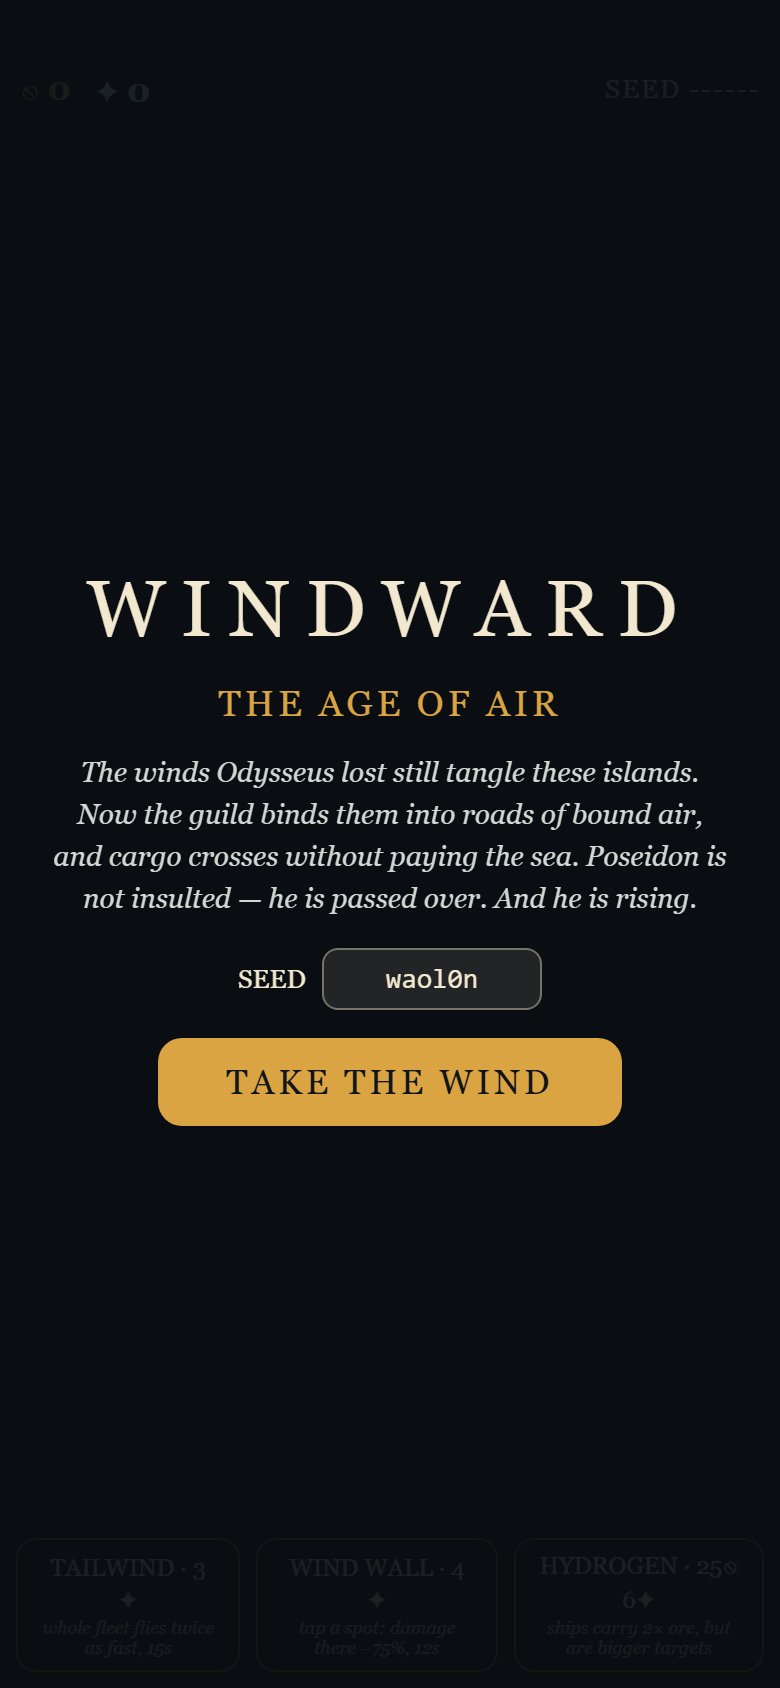
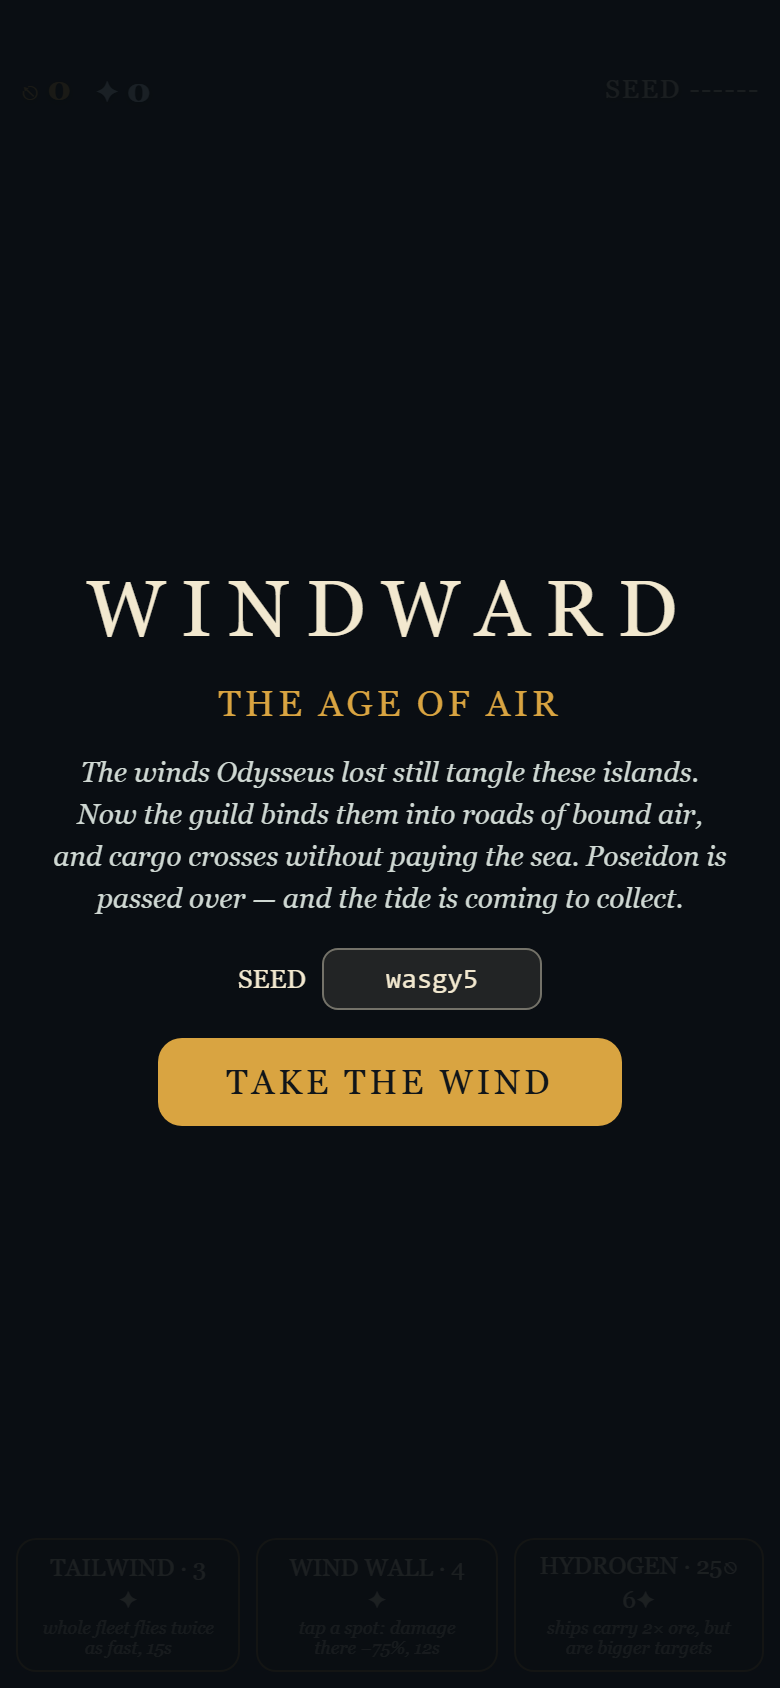
tune: lore line - Poseidon is passed over, the tide comes to collect
Player-directed tightening: "not insulted" cut; the revenge lands as
"Poseidon is passed over - and the tide is coming to collect", tying
his grievance to the unpaid crossing toll.

Claude-Session: https://claude.ai/code/session_01NjEpo5MjLFBKVLFNZET6tb

Changed region(s): [[0.3385, 0.5237, 0.8923, 0.5853], [0.1231, 0.5237, 0.3077, 0.5545]]

diff --git a/index.html b/index.html
@@ -225,8 +225,8 @@
     <h2>THE AGE OF AIR</h2>
     <p id="lorepara" style="max-width:340px; font-style: italic; line-height:1.5;">The winds
       Odysseus lost still tangle these islands. Now the guild binds them into roads of
-      bound air, and cargo crosses without paying the sea. Poseidon is not insulted —
-      he is passed over. And he is rising.</p>
+      bound air, and cargo crosses without paying the sea. Poseidon is passed over —
+      and the tide is coming to collect.</p>
     <div class="seedrow">SEED <input id="seedinput" maxlength="8" autocomplete="off"></div>
     <button id="startbtn">TAKE THE WIND</button>
   </div>

diff --git a/shell.html b/shell.html
@@ -225,8 +225,8 @@
     <h2>THE AGE OF AIR</h2>
     <p id="lorepara" style="max-width:340px; font-style: italic; line-height:1.5;">The winds
       Odysseus lost still tangle these islands. Now the guild binds them into roads of
-      bound air, and cargo crosses without paying the sea. Poseidon is not insulted —
-      he is passed over. And he is rising.</p>
+      bound air, and cargo crosses without paying the sea. Poseidon is passed over —
+      and the tide is coming to collect.</p>
     <div class="seedrow">SEED <input id="seedinput" maxlength="8" autocomplete="off"></div>
     <button id="startbtn">TAKE THE WIND</button>
   </div>

diff --git a/buildlog/BUILDLOG.md b/buildlog/BUILDLOG.md
@@ -133,6 +133,7 @@ ENTRY TEMPLATE — copy for each session.
 | 43 | **Waves are EVENTS + cloudy fog + flow math + fog leaks (five reports):** wave launch now lands with a war-horn crash, an eruption at the origin, a pulsing teal storm vignette (telegraph→assault) and an edge chevron pointing at his fleet when off-screen — drama without a single word. Ocean lurch on pan root-caused: scroll was flowDir×absolute-time, so wind changes were amplified by all accumulated seconds; now a CPU-integrated offset (direction changes affect only the future). Floating mines on seed w8rlfq: the quarry kit was never fog-gated — all of it now obeys groundLifted. Fog of war = dense billowing cloud (original fbm shader, opaque). Parked units each hover over their own island square | `e441f74` | feat: wave events, cloudy fog, flow integration |
 | 44 | **Quarries occupy their ground (player caught his temple ON a mine):** no building on the mine cell for either side until depletion blasts it into a pad — gate in whyNotBuild + quarry-aware plot picks in AI, context menu, and all scripted players (test_win had picked a filler''s quarry plot and failed until guarded). SKIP → SKIP TUTORIAL. `node serve.js`: stdlib dev server on :8080, auto-rebuilds on src/shell changes | `11b0d31` | fix: quarry ground, labeled skip, dev server |
 | 45 | **Tap-identity + fortify-anywhere + wind-pushed fleet (player-directed):** context menu now opens with an identity header (ship under thumb: class/hull/cargo/state, then the ground) plus available actions — nothing stays a mystery. Every empty island tile is buildable (plot founded at the tapped cell; quarry ground still reserved). Dirigible propeller removed on LORE (nothing self-propels; bow wind-scoop + streaming pennants instead). `opt_headwind.js` sweep: one-way lanes rejected (drifting wind strands fleets), but spread widened AIR 0.55–1.45 so circuits beat out-and-back. Ore heap leans toward island centre (was hanging over water on coastal quarries = "mines mid-ocean", w9iwff); bridge placement that seed verified live in-browser (menu→chips→ghost→confirm) | `2f0780c` | feat: identity menu, fortify anywhere, wind lore |
+| 46 | **THE AGE OF AIR (player-directed):** subtitle sharpened from THE WINDS INHERIT THE WAVES; the 7-card rotating lore carousel is retired for ONE four-sentence paragraph above TAKE THE WIND (Odysseus'' lost winds → guild binds them into roads → the sea unpaid → ''Poseidon is not insulted — he is passed over. And he is rising.''). README + intro screenshot updated | `fc175a3` | feat: age of air intro |
 | 22 | **Favor income sweep** (`test/opt_income.js`, `opt_income2.js`): divisor-only sweep showed lean income causes death-spirals (lose temples → can't afford roads → segsA collapses to 10); pairing a leaner territory rate with a fatter territory-free baseline fixes it. Pairs [8,4] and [16,6] tie at 92; chose **divisor 16 + baseline 6/10s** because actives end at 24–31 Favor (every power cast competes with roads — the tension we wanted) vs 100+ spare at [8,4]. The baseline drip is rebuild insurance | `dfc95e5` | tune: favor income 16-divisor + 6 baseline, sweep-derived |
 | 21 | **Favor price sweep** (`test/opt_favor.js`): prices 1/2/3/5 score identically (avg 90 across 3 seeds) because temple-influence Favor income floods the price; at 5 active players end at 0 Favor (powers become unaffordable — the sim can't see this since the script never casts); at 8 networks starve on 2 of 3 seeds. **Chose 3**: quality identical to 1, reserves halved, price felt, powers budget preserved. Flagged follow-up: Favor *income* (hundreds per match from temple influence) is the real oversupply lever | `3baed33` | tune: piece price 3 favor, sweep-derived |
 | 18 | **Toast discipline (player-directed):** every transient line (tutorial, banner, ticker, codex) is tap-to-dismiss; story/tutorial lines show once EVER via localStorage (skip marks them all seen); codex long-press slowed to ~1s so it stops firing accidentally | `fe63d05` | fix: dismissible, once-only story toasts |
